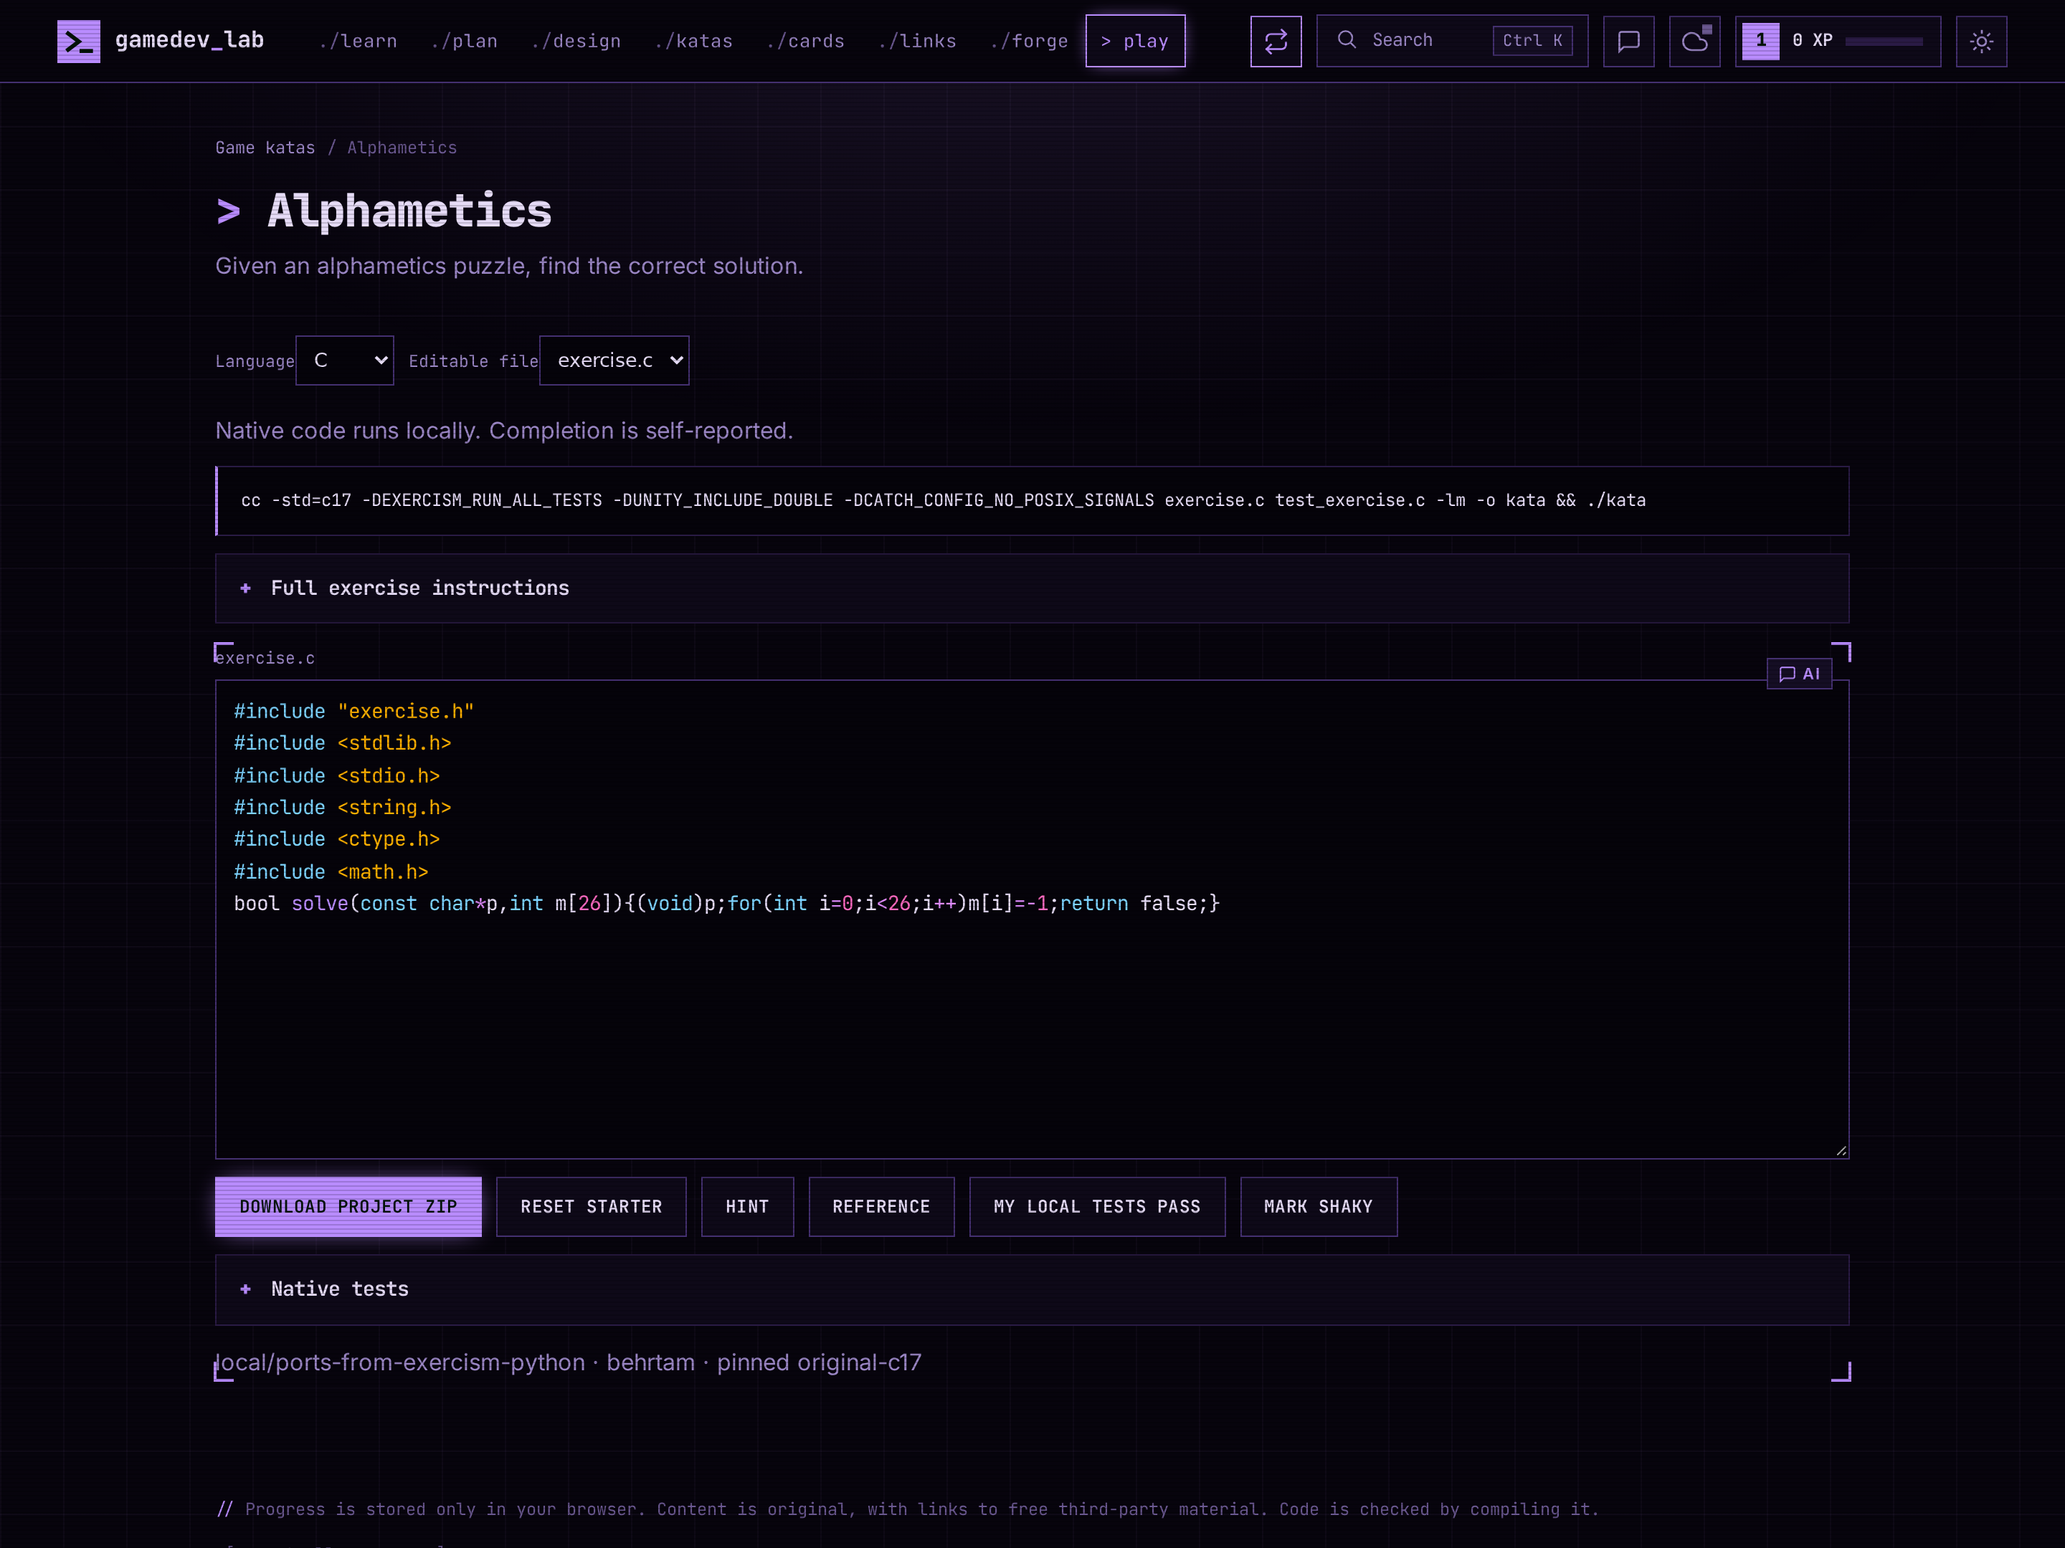
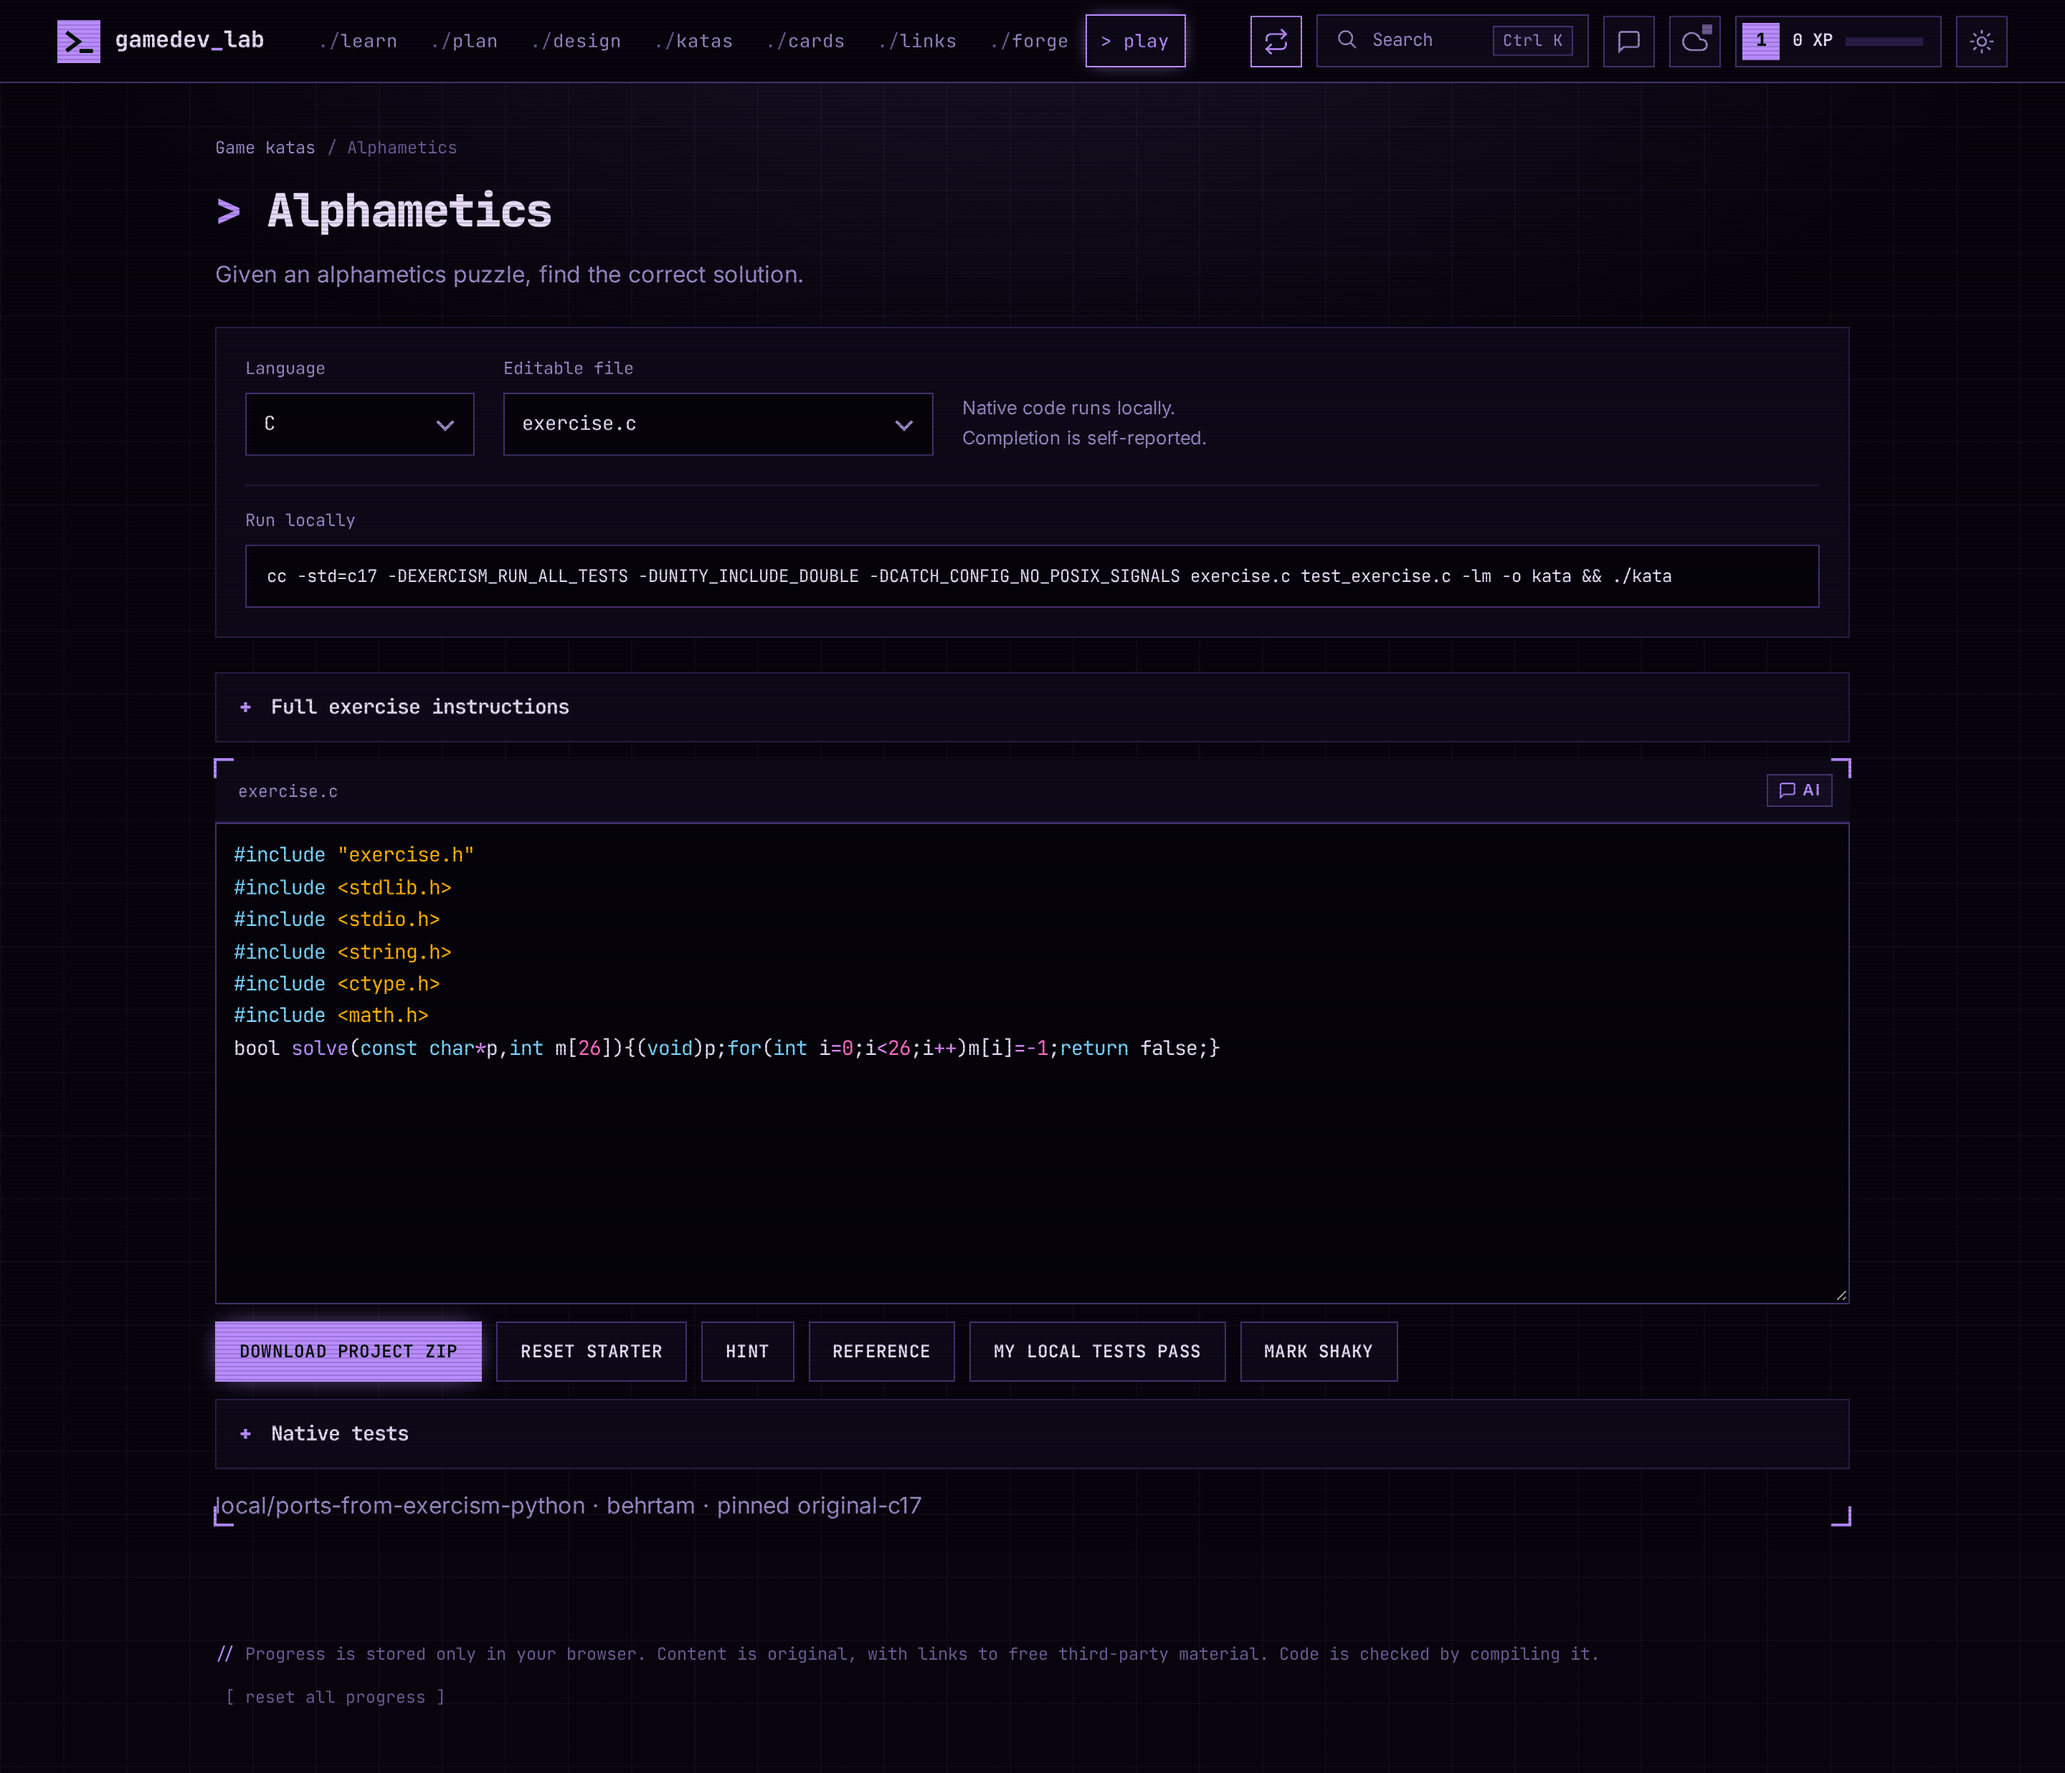
fix: polish native exercise header and setup controls

diff --git a/assets/game/katas.js b/assets/game/katas.js
@@ -15,7 +15,7 @@
       const names=Object.keys(bundle.starter),draftKey='gd:kataFiles:'+id+':'+lang,draft=store.get(draftKey,{}),code={...bundle.starter,...draft};let filename=names.find(f=>f.endsWith('.'+languages[lang].ext))||names[0];const single=!k.catalog,sourceNames=Object.keys({...bundle.starter,...bundle.tests,...support}).filter(f=>f.endsWith(lang==='cpp'?'.cpp':'.c'));
       const command=single?(lang==='zig'?`zig test ${id}.zig`:`${lang==='c'?'cc -std=c17':'c++ -std=c++20'} ${id}.${languages[lang].ext} -lm -o kata && ./kata`):lang==='zig'?`zig test ${Object.keys(bundle.tests).find(f=>f.endsWith('.zig'))}`:`${lang==='c'?'cc -std=c17':'c++ -std=c++20'} -DEXERCISM_RUN_ALL_TESTS -DUNITY_INCLUDE_DOUBLE -DCATCH_CONFIG_NO_POSIX_SIGNALS ${sourceNames.join(' ')} -lm -o kata && ./kata`;
       document.title=`${k.title} (${languages[lang].label}) · Game katas`;
-      app.innerHTML=`<div class="crumbs"><a href="#/game-katas">Game katas</a> / ${esc(k.title)}</div><div class="page-h"><h1>${esc(k.title)}</h1><p>${esc(k.prompt)}</p></div><div class="dbar"><label class="lbl">Language<select class="inp" id="gklanguage" aria-label="Kata language">${Object.entries(languages).map(([value,l])=>`<option value="${value}" ${lang===value?'selected':''}>${l.label}</option>`).join('')}</select></label><label class="lbl">Editable file<select id="gkfile" aria-label="Source file">${names.map(f=>`<option ${f===filename?'selected':''}>${esc(f)}</option>`).join('')}</select></label></div><p class="muted">${lang==='zig'?'Zig 0.17.0 · ':''}Native code runs locally. Completion is self-reported.</p><pre class="gl-source"><code id="gkcommand">${esc(command)}</code></pre>${instructions?`<details><summary>Full exercise instructions</summary><pre class="gl-instructions">${esc(instructions)}</pre><p>The native API and ownership rules are specified in the source headers and tests below.</p></details>`:''}<section class="tc brk"><label class="lbl" id="gkfilename" for="gkcode">${esc(filename)}</label><textarea class="inp gl-code" id="gkcode" rows="14" spellcheck="false">${esc(code[filename])}</textarea><div class="dbar"><button class="btn primary" id="gkdownload">${single?'Download code + tests':'Download project ZIP'}</button><button class="btn" id="gkreset">Reset starter</button><button class="btn" id="gkhint">Hint</button><button class="btn" id="gksolution">Reference</button><button class="btn" id="gkpass">My local tests pass</button><button class="btn" id="gkshaky">Mark shaky</button>${H.askBtn(`I am learning ${k.title} in ${languages[lang].label}. ${k.prompt} Give me a hint and edge cases, not the solution.`, 'Ask tutor')}</div><p id="gkhintout" hidden>${esc(k.hint||'Read the declared API and native test cases. Start with the simplest case, then handle invalid inputs and ownership.')}</p><div id="gkref" hidden>${Object.entries(bundle.solution).map(([name,text])=>`<h3>${esc(name)}</h3><pre data-native-code><code>${esc(text)}</code></pre>`).join('')}</div><details><summary>Native tests</summary>${Object.entries(bundle.tests).map(([name,text])=>`<h3>${esc(name)}</h3><pre data-native-code><code>${esc(text)}</code></pre>`).join('')}</details><output id="gkresult" class="gk-result" role="status"></output>${k.lesson?`<nav class="gk-related" aria-label="Continue learning"><a class="btn" href="#/lesson/${k.lesson}">Related lesson →</a></nav>`:''}${k.catalog?`<p class="muted">${esc(bundle.source)} · ${esc(bundle.authors.join(', '))}${bundle.ref?` · pinned ${esc(bundle.ref.slice(0,12))}`:''}</p>`:''}</section>`;
+      app.innerHTML=`<div class="crumbs"><a href="#/game-katas">Game katas</a> / ${esc(k.title)}</div><div class="page-h gk-heading"><h1>${esc(k.title)}</h1><p>${esc(k.prompt)}</p></div><section class="gk-setup" aria-label="Exercise setup"><div class="gk-controls"><label class="gk-field" for="gklanguage"><span>Language</span><select id="gklanguage" aria-label="Kata language">${Object.entries(languages).map(([value,l])=>`<option value="${value}" ${lang===value?'selected':''}>${l.label}</option>`).join('')}</select></label><label class="gk-field" for="gkfile"><span>Editable file</span><select id="gkfile" aria-label="Source file">${names.map(f=>`<option ${f===filename?'selected':''}>${esc(f)}</option>`).join('')}</select></label><p class="gk-runtime">${lang==='zig'?'Zig 0.17.0 · ':''}Native code runs locally.<br>Completion is self-reported.</p></div><div class="gk-run"><span class="gk-run-label">Run locally</span><pre class="gl-source"><code id="gkcommand">${esc(command)}</code></pre></div></section>${instructions?`<details><summary>Full exercise instructions</summary><pre class="gl-instructions">${esc(instructions)}</pre><p>The native API and ownership rules are specified in the source headers and tests below.</p></details>`:''}<section class="tc brk"><label class="lbl gk-editor-label" id="gkfilename" for="gkcode">${esc(filename)}</label><textarea class="inp gl-code" id="gkcode" rows="14" spellcheck="false">${esc(code[filename])}</textarea><div class="dbar"><button class="btn primary" id="gkdownload">${single?'Download code + tests':'Download project ZIP'}</button><button class="btn" id="gkreset">Reset starter</button><button class="btn" id="gkhint">Hint</button><button class="btn" id="gksolution">Reference</button><button class="btn" id="gkpass">My local tests pass</button><button class="btn" id="gkshaky">Mark shaky</button>${H.askBtn(`I am learning ${k.title} in ${languages[lang].label}. ${k.prompt} Give me a hint and edge cases, not the solution.`, 'Ask tutor')}</div><p id="gkhintout" hidden>${esc(k.hint||'Read the declared API and native test cases. Start with the simplest case, then handle invalid inputs and ownership.')}</p><div id="gkref" hidden>${Object.entries(bundle.solution).map(([name,text])=>`<h3>${esc(name)}</h3><pre data-native-code><code>${esc(text)}</code></pre>`).join('')}</div><details><summary>Native tests</summary>${Object.entries(bundle.tests).map(([name,text])=>`<h3>${esc(name)}</h3><pre data-native-code><code>${esc(text)}</code></pre>`).join('')}</details><output id="gkresult" class="gk-result" role="status"></output>${k.lesson?`<nav class="gk-related" aria-label="Continue learning"><a class="btn" href="#/lesson/${k.lesson}">Related lesson →</a></nav>`:''}${k.catalog?`<p class="muted">${esc(bundle.source)} · ${esc(bundle.authors.join(', '))}${bundle.ref?` · pinned ${esc(bundle.ref.slice(0,12))}`:''}</p>`:''}</section>`;
       editor=NativeCode.editor($('#gkcode'),lang);NativeCode.highlight(app,lang);
       const save=()=>{code[filename]=$('#gkcode').value;store.set(draftKey,code);};$('#gkcode').oninput=save;
       $('#gkfile').onchange=()=>{save();filename=$('#gkfile').value;$('#gkfilename').textContent=filename;editor.setValue(code[filename]);};

diff --git a/assets/style.css b/assets/style.css
@@ -871,7 +871,7 @@ button.tool{background:none;border:0;border-left:0;font:inherit;text-align:left;
 @media(min-width:901px){.gl-stage{position:sticky;top:90px}}
 @media(max-width:760px){.xp>span:nth-child(2){display:none}.xp{gap:5px;padding-right:5px}.top-r{min-width:0}.gl-stage{position:static}}
 .gl-instructions{white-space:pre-wrap;overflow-wrap:anywhere;font-family:var(--font)}
-#gkref pre{max-width:100%;overflow:auto}#gklanguage,#gkfile,#gkgroup{background:var(--editor);color:var(--ink);border:1px solid var(--line2);padding:8px}#gkfilter{min-width:0;padding:8px;background:var(--editor);color:var(--ink);border:1px solid var(--line2)}
+#gkref pre{max-width:100%;overflow:auto}#gkgroup{background:var(--editor);color:var(--ink);border:1px solid var(--line2);padding:8px}#gkfilter{min-width:0;padding:8px;background:var(--editor);color:var(--ink);border:1px solid var(--line2)}
 
 /* Shared native code colors follow the existing dark/light editor palette. */
 pre[data-native-code] code,.native-code-render code{font:inherit;letter-spacing:inherit;white-space:pre;tab-size:inherit}
@@ -896,3 +896,20 @@ pre[data-native-code] .token.macro,pre[data-native-code] .token.directive,.nativ
 .gk-related .btn{max-width:100%;white-space:normal}
 .gk-result{display:block;margin:12px 16px;overflow-wrap:anywhere}
 .gk-result:empty{display:none}
+
+/* Native exercise setup: aligned fields, a shared command panel, roomy targets. */
+.gk-heading{margin-bottom:24px}.gk-heading h1{margin-bottom:12px}.gk-heading p{max-width:72ch}
+.gk-setup{margin:0 0 24px;padding:20px;background:var(--panel);border:1px solid var(--line);min-width:0}
+.gk-controls{display:grid;grid-template-columns:minmax(120px,160px) minmax(0,300px) minmax(0,1fr);align-items:end;gap:20px}
+.gk-field{display:grid;gap:8px;position:relative;margin:0;min-width:0;font-family:var(--mono)}
+.gk-field>span,.gk-run-label{color:var(--muted);font-family:var(--mono);font-size:.74rem;line-height:1.4}
+.gk-field select{appearance:none;display:block;width:100%;min-width:0;min-height:44px;padding:10px 38px 10px 12px;background:var(--editor);border:1px solid var(--line2);color:var(--ink);font: .85rem/1.4 var(--mono);text-overflow:ellipsis;cursor:pointer}
+.gk-field::after{content:"";position:absolute;right:16px;bottom:19px;width:7px;height:7px;border-right:2px solid var(--muted);border-bottom:2px solid var(--muted);transform:rotate(45deg);pointer-events:none}
+.gk-field select:hover{border-color:var(--accent)}.gk-field select:focus-visible{outline:2px solid var(--accent);outline-offset:2px}
+.gk-runtime{margin:0;padding-bottom:2px;color:var(--muted);font-size:.8rem;line-height:1.6;overflow-wrap:anywhere}
+.gk-run{margin-top:20px;padding-top:16px;border-top:1px solid var(--line);min-width:0}.gk-run-label{display:block;margin-bottom:8px}
+.gk-run .gl-source{margin:0;padding:12px 14px;border:1px solid var(--line2);background:var(--editor)}
+@media(max-width:900px){.gk-controls{grid-template-columns:minmax(120px,160px) minmax(0,1fr);gap:16px}.gk-runtime{grid-column:1/-1;padding:0}}
+@media(max-width:520px){.gk-setup{padding:16px}.gk-controls{grid-template-columns:minmax(0,1fr)}.gk-runtime{grid-column:auto}.gk-field select{font-size:16px}.gk-heading h1{margin-bottom:10px}}
+
+.gk-editor-label{margin:0;padding:12px 16px;border-bottom:1px solid var(--line);background:var(--panel)}
